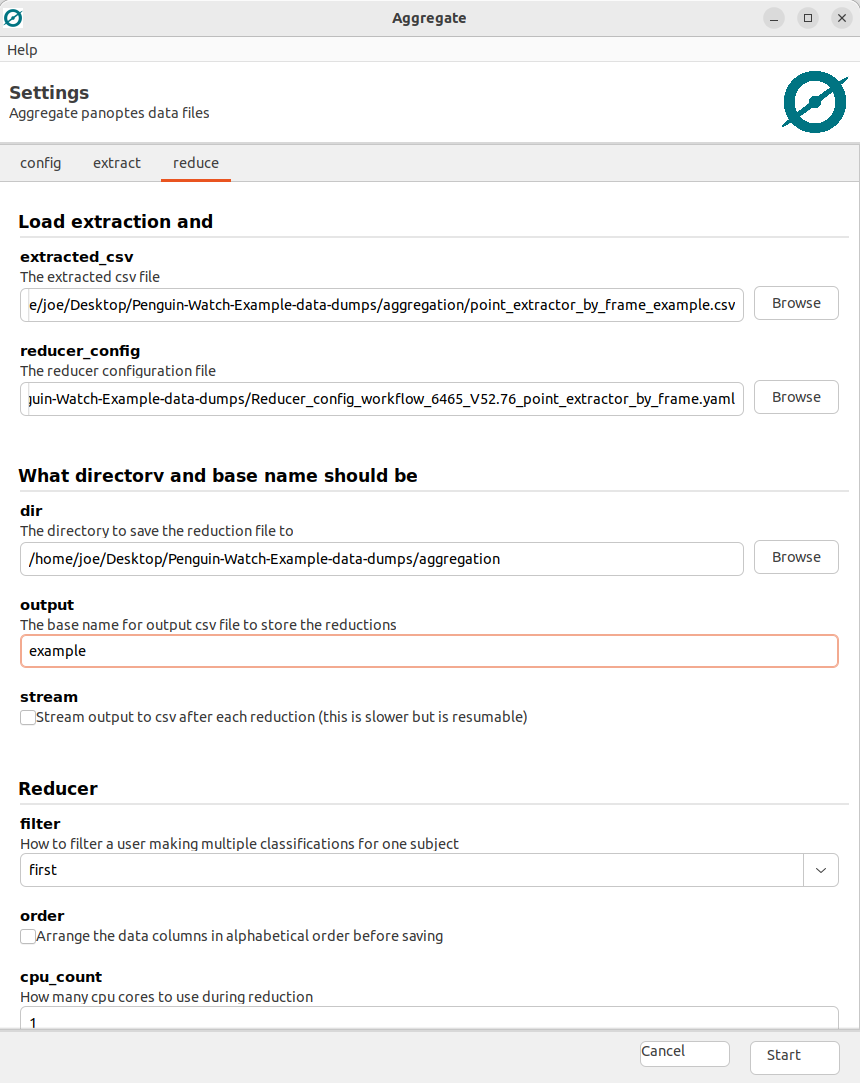
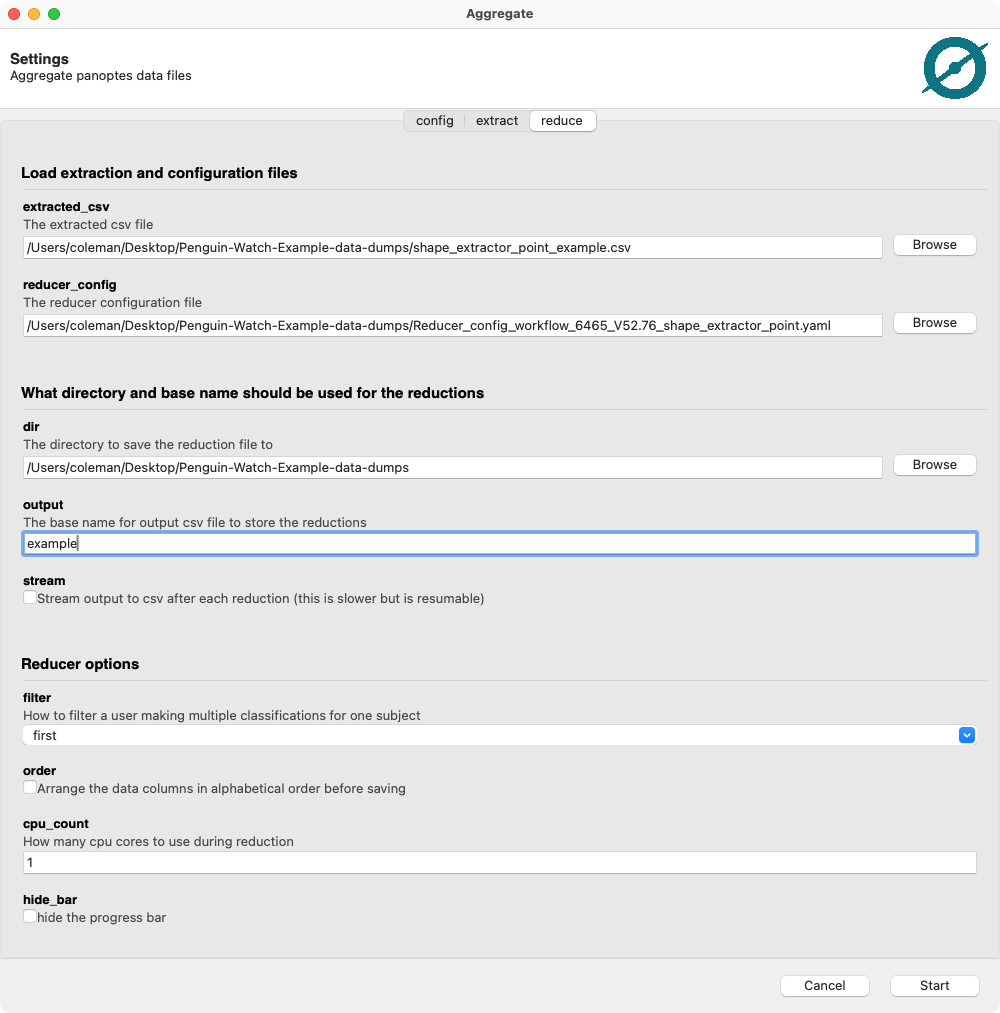
Update GUI example to reflect new config defaults
Similar to the CLI update, these changes ensure the GUI docs match the current default configuration.  Screenshots of the current GUI have been updated as well.

diff --git a/docs/source/GUI.md b/docs/source/GUI.md
@@ -58,18 +58,18 @@ The `extract` tab will extract your data into one flat `csv` file for each task 
 Before starting let's take a closer look at the extractor configuration file `Extractor_config_workflow_6465_V52.yaml`:
 ```yaml
 extractor_config:
-    point_extractor_by_frame:
+    question_extractor:
+    -   task: T1
+    shape_extractor_point:
     -   details:
-            T0_tool3:
-            - question_extractor
+            T0_toolIndex3_subtask0: question_extractor
+        shape: point
         task: T0
         tools:
         - 0
         - 1
         - 2
         - 3
-    question_extractor:
-    -   task: T1
     shortcut_extractor:
     -   task: T6
 workflow_id: 6465
@@ -87,7 +87,7 @@ This extractor configuration file can be used along with the classification data
 
 This creates three `csv` files (one for each extractor listed in the config file):
  - `question_extractor_example.csv`
- - `point_extractor_by_frame_example.csv`
+ - `shape_extractor_point_example.csv`
  - `shortcut_extractor_example.csv`
 
 Click the `Edit` button to go back to the previous screen.
@@ -100,35 +100,35 @@ Note: this only works for some task types, see the [documentation](https://aggre
 The `reduce` tab will reduce the extracts by `subject_id` into a consensus aggregation.
 
 ### Example: Penguin Watch
-For this example we will do the point clustering for the task `T0`.  Let's take a look at the default config file for that reducer `Reducer_config_workflow_6465_V52.76_point_extractor_by_frame.yaml`:
+For this example we will do the point clustering for the task `T0`.  Let's take a look at the default config file for that reducer `Reducer_config_workflow_6465_V52.76_shape_extractor_point.yaml`:
 ```yaml
 reducer_config:
-    point_reducer_dbscan:
+    shape_reducer_dbscan:
         details:
-            T0_tool3:
-            - question_reducer
+            T0_toolIndex3_subtask0: question_reducer
+        shape: point
 ```
 
-As we can see, the default reducer is `point_reducer_dbscan` and the only keyword specified is the only associated with the sub-task of `tool3`.  To get better results we will add some clustering keywords to the configuration of `DBSCAN`:
+As we can see, the default reducer is `point_reducer_dbscan` and the only keyword specified is the only associated with the sub-task of `toolIndex3`.  To get better results we will add some clustering keywords to the configuration of `DBSCAN`:
 ```yaml
 reducer_config:
-    point_reducer_dbscan:
+    shape_reducer_dbscan:
+        details:
+            T0_toolIndex3_subtask0: question_reducer
+        shape: point
         eps: 5
         min_samples: 3
-        details:
-            T0_tool3:
-            - question_reducer
 ```
 
 But for this project there is a large amount of depth-of-field in the images, leading to a non-constant density of point clusters across the images (more dense in the background of the image and less dense in the foreground).  This means that `HDBSCAN` will work better:
 ```yaml
 reducer_config:
-    point_reducer_hdbscan:
+    shape_reducer_hdbscan:
+        details:
+            T0_toolIndex3_subtask0: question_reducer
+        shape: point
         min_cluster_size: 4
         min_samples: 3
-        details:
-            T0_tool3:
-            - question_reducer
 ```
 
 Point the GUI to the extraction file and the configuration file to reduce the data:
@@ -138,7 +138,7 @@ Point the GUI to the extraction file and the configuration file to reduce the da
 ![GUI config](_static/gui_reducer_output.png)
 
 This will create one file:
- - `point_reducer_hdbscan_example.csv`: The clustered data points for task `T0`
+ - `shape_reducer_hdbscan_example.csv`: The clustered data points for task `T0`
 
 ---
 
@@ -149,7 +149,7 @@ import pandas
 from panoptes_aggregation.csv_utils import unjson_dataframe
 
 # the `data.*` columns are read in as strings instead of arrays
-data = pandas.read_csv('point_reducer_hdbscan_example.csv')
+data = pandas.read_csv('shape_reducer_hdbscan_example.csv')
 
 # use unjson_dataframe to convert them to lists
 # all values are updated in place leaving null values untouched
